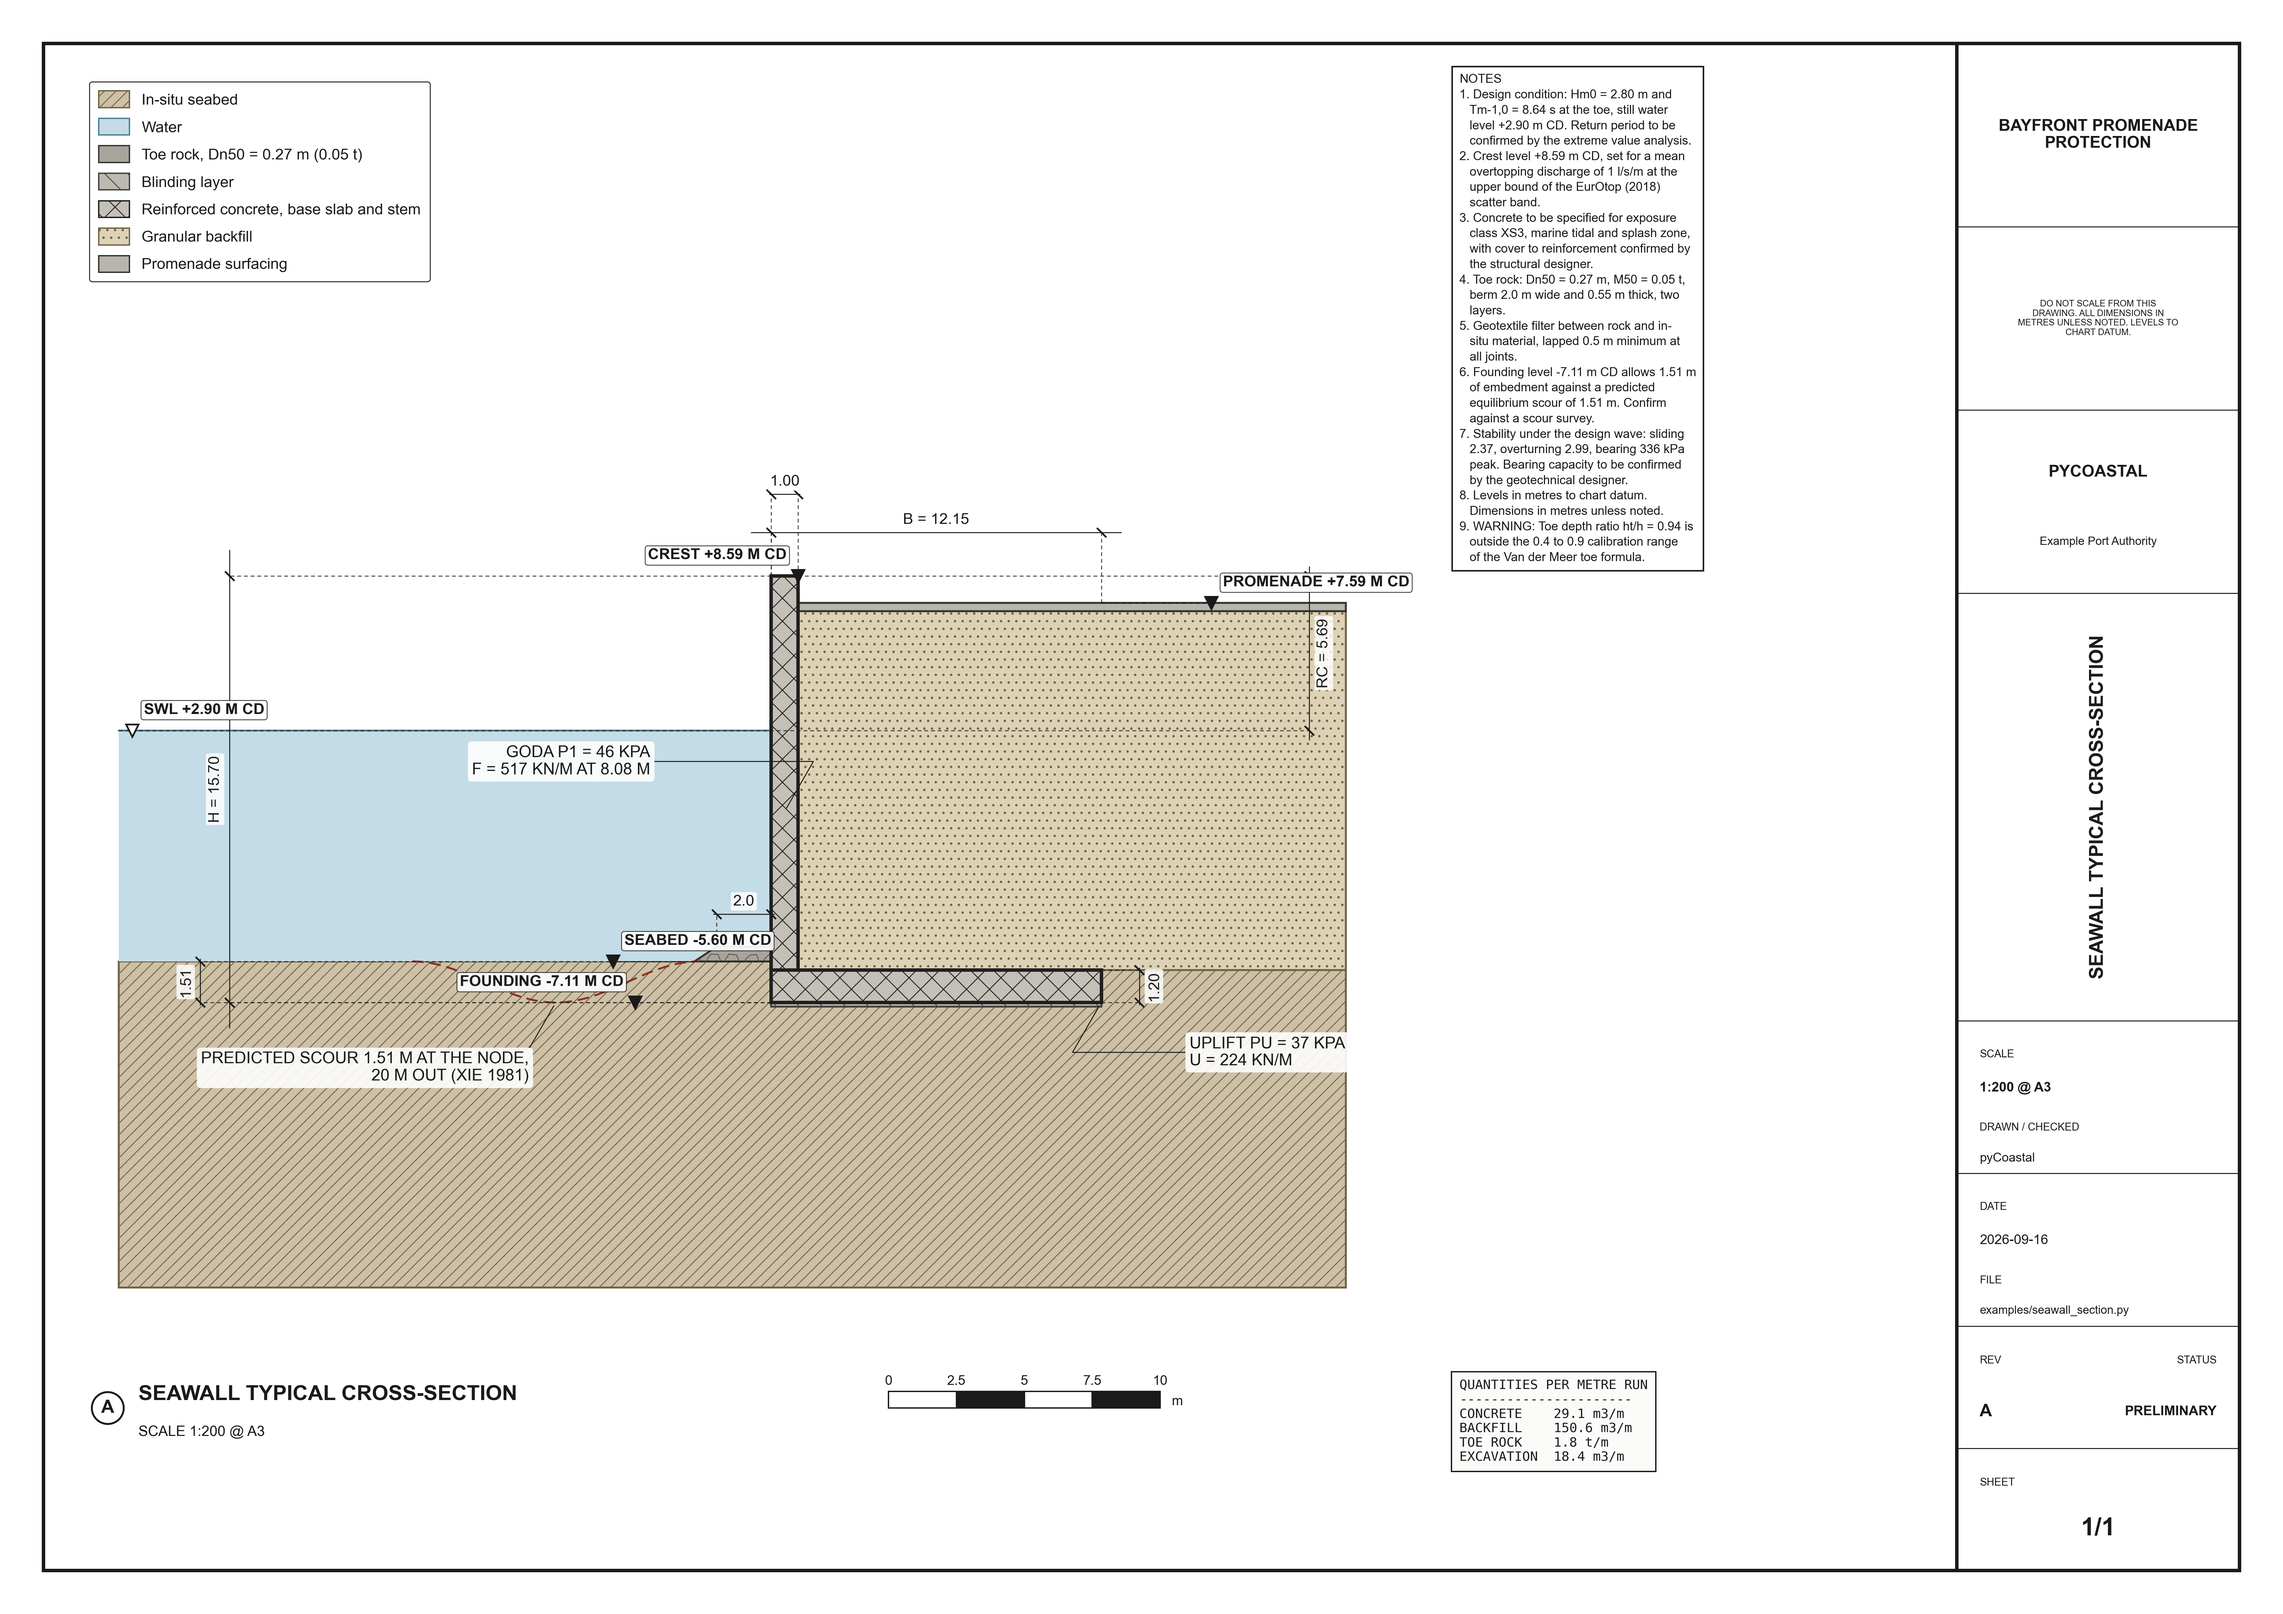
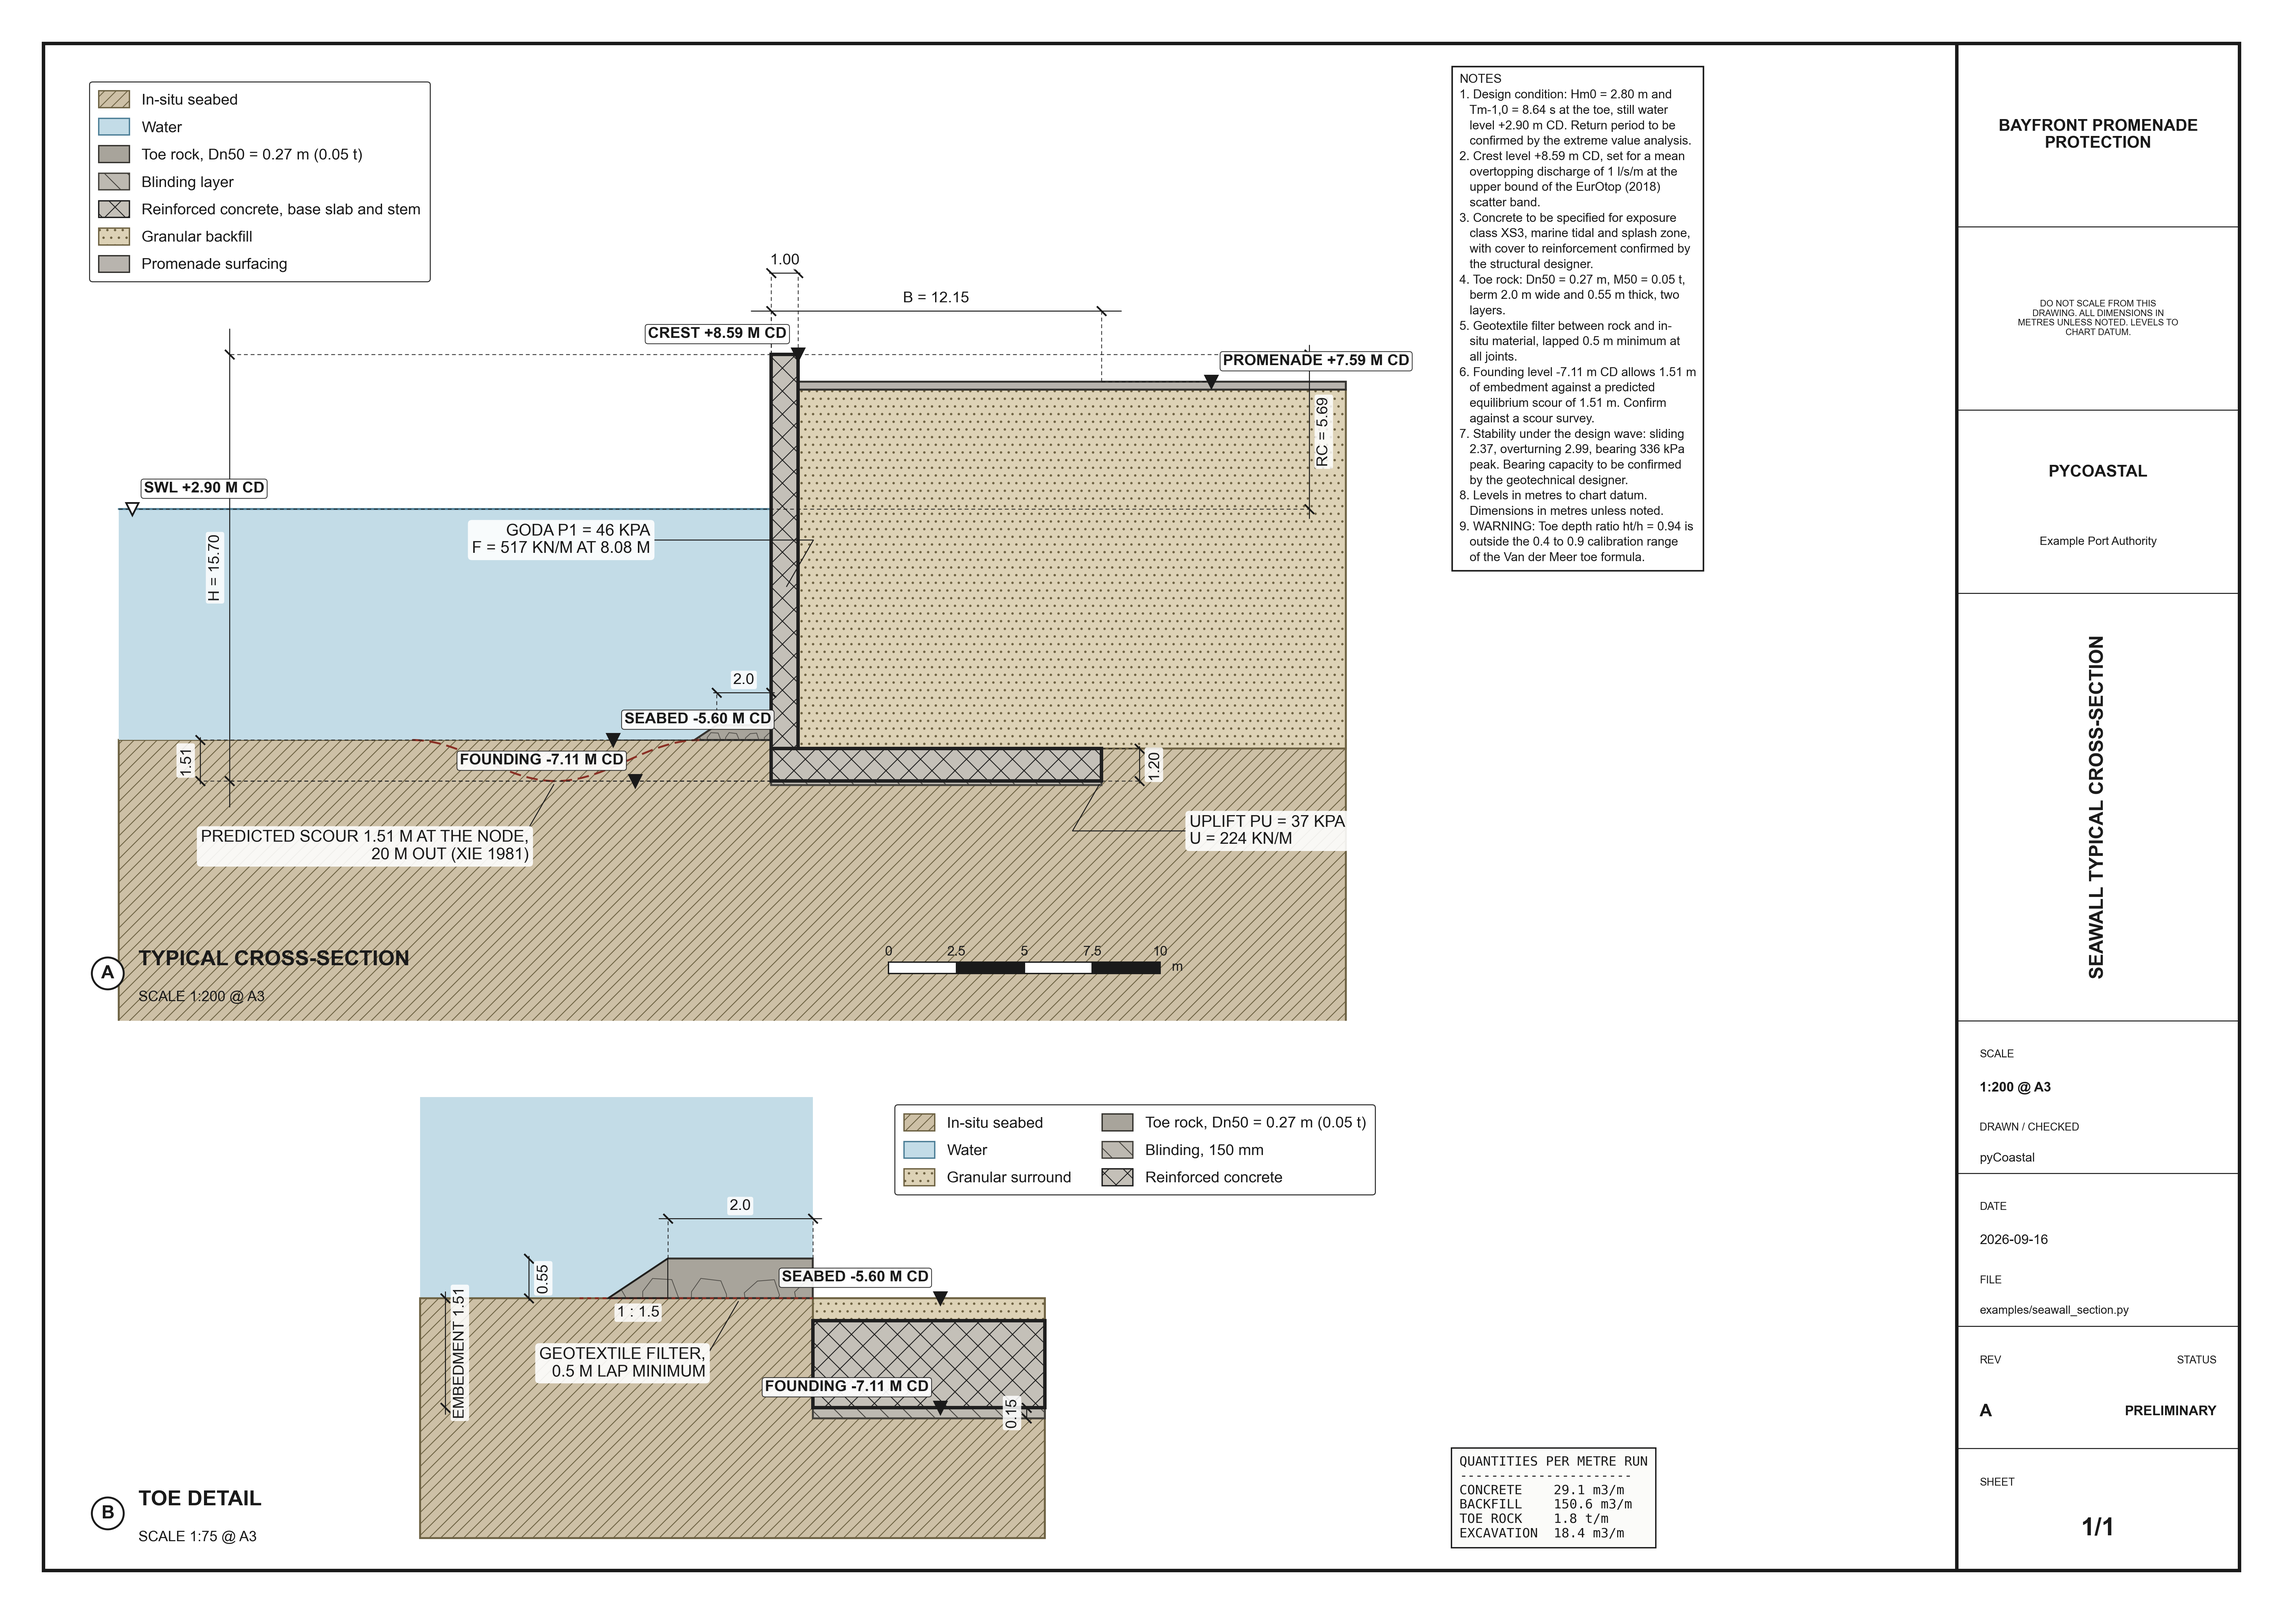
Add an enlarged toe detail to the seawall sheet
The sheet now carries a typical section and a toe detail, matching how a
real drawing set splits the two: where things are, and what they are made
of.

Changed region(s): [[0.0311, 0.1873, 0.6229, 0.9677], [0.6229, 0.8428, 0.7164, 0.9677], [0.0623, 0.9053, 0.0934, 0.9365]]

diff --git a/pyCoastal/applications/sections.py b/pyCoastal/applications/sections.py
@@ -40,6 +40,7 @@ __all__ = [
     "draw_seawall",
     "seawall_section",
     "seawall_sheet",
+    "draw_seawall_toe_detail",
     "draw_rubble_mound",
     "rubble_mound_section",
     "rubble_mound_sheet",
@@ -414,14 +415,24 @@ def seawall_sheet(
     sheet = Sheet(
         _sheet_for(title, project, file, **titleblock), size=size,
     )
-    view = sheet.viewport(rect=(0.0, 0.05, 0.72, 0.95))
+
+    # View A: the typical section, showing where everything is.
+    view = sheet.viewport(rect=(0.0, 0.34, 0.72, 0.66))
     xlim, zlim = draw_seawall(view, d, sea_extent, land_extent)
     view.fit_scale(xlim, zlim, paper=size)
-    view.detail_bubble("A", title, view.scale_text, loc=(0.02, 0.04))
-    view.scale_bar(10.0, loc=(0.62, 0.04))
+    view.detail_bubble("A", "Typical cross-section", view.scale_text,
+                       loc=(0.02, 0.05))
+    view.scale_bar(10.0, loc=(0.62, 0.05))
     view.key(loc="upper left")
 
-    notes = sheet.viewport(rect=(0.72, 0.05, 0.28, 0.95), frame=False)
+    # View B: the toe, enlarged, showing what it is made of.
+    toe = sheet.viewport(rect=(0.0, 0.0, 0.72, 0.33))
+    txlim, tzlim = draw_seawall_toe_detail(toe, d)
+    toe.fit_scale(txlim, tzlim, paper=size)
+    toe.detail_bubble("B", "Toe detail", toe.scale_text, loc=(0.02, 0.06))
+    toe.key(loc="upper right", ncol=2)
+
+    notes = sheet.viewport(rect=(0.72, 0.0, 0.28, 1.0), frame=False)
     notes.ax.set_xlim(0, 1)
     notes.ax.set_ylim(0, 1)
     notes.ax.set_aspect("auto")
@@ -1030,3 +1041,76 @@ def draw_channel_detail(dwg: Section, design, width_in_beams: float = 0.35,
                   f"gross UKC {d.clearance['gross']:.2f}", side="left")
 
     return (-half, half), (level - 1.2, hull_top + 0.2)
+
+
+def draw_seawall_toe_detail(dwg: Section, design, annotate: bool = True
+                            ) -> tuple[tuple, tuple]:
+    """Enlarged detail of the toe, where the section is actually decided.
+
+    The typical section shows where everything is. This shows what the toe
+    is made of: the blinding under the heel, the founding level against the
+    scour allowance, the rock berm and its geotextile, and the seabed the
+    whole thing is sitting on. It is the part of a seawall that fails first
+    and the part a typical section is always too small to explain.
+    """
+    d = design
+    bed, found = d.seabed_level, d.founding_level
+    berm_face = 1.5 * d.toe_berm_thickness
+    blinding = 0.15
+
+    x0 = -(d.toe_berm_width + berm_face + 2.6)
+    x1 = 2.2 * d.stem_thickness + 1.0
+    floor = found - 1.8
+
+    dwg.material([[x0, floor], [x1, floor], [x1, bed], [x0, bed]],
+                 "subgrade", label="In-situ seabed", zorder=1.5)
+    dwg.water(x0, 0.0, d.still_water_level, bed=bed, zorder=1.2)
+
+    # The excavation the wall sits in, backfilled around the base.
+    dwg.material([[0.0, found - blinding], [x1, found - blinding],
+                  [x1, bed], [0.0, bed]], "granular",
+                 label="Granular surround", zorder=2.0)
+
+    dwg.material(
+        [[-d.toe_berm_width - berm_face, bed],
+         [-d.toe_berm_width, bed + d.toe_berm_thickness],
+         [0.0, bed + d.toe_berm_thickness], [0.0, bed]],
+        "toe",
+        label=f"Toe rock, Dn50 = {d.toe_Dn50:.2f} m ({d.toe_M50 / 1000:.2f} t)",
+        zorder=2.6,
+    )
+    dwg.material([[0.0, found - blinding], [x1, found - blinding],
+                  [x1, found], [0.0, found]], "blinding",
+                 label=f"Blinding, {blinding * 1000:.0f} mm", zorder=2.8)
+    dwg.material([[0.0, found], [x1, found],
+                  [x1, found + d.base_thickness], [0.0, found + d.base_thickness]],
+                 "reinforced", label="Reinforced concrete", zorder=3.0)
+
+    # Geotextile under the rock, drawn as the line it is on a drawing.
+    dwg.line([[-d.toe_berm_width - berm_face - 0.4, bed],
+              [0.0, bed]], weight="medium", style=(0, (2, 2)),
+             color="#8a2f24", zorder=3.4)
+
+    if annotate:
+        dwg.note((-0.5 * d.toe_berm_width, bed),
+                 "Geotextile filter,\n0.5 m lap minimum", offset=(-18, -34),
+                 ha="right")
+        dwg.level(x1 * 0.55, bed, f"Seabed {bed:+.2f} m CD", side="left")
+        dwg.level(x1 * 0.55, found, f"Founding {found:+.2f} m CD", side="left")
+        dwg.dim_v(found, bed, x0 + 0.35, f"embedment {d.embedment:.2f}",
+                  side="right")
+        dwg.dim_v(found - blinding, found, x1 - 0.25, f"{blinding:.2f}",
+                  side="left")
+        dwg.dim_h(-d.toe_berm_width, 0.0, bed + d.toe_berm_thickness + 0.55,
+                  f"{d.toe_berm_width:.1f}",
+                  extend_from=(bed + d.toe_berm_thickness,
+                               bed + d.toe_berm_thickness))
+        # Kept a clear metre from the embedment dimension: two rotated
+        # labels on top of each other is the usual way a detail becomes
+        # unreadable.
+        dwg.dim_v(bed, bed + d.toe_berm_thickness, x0 + 1.5,
+                  f"{d.toe_berm_thickness:.2f}", side="right")
+        dwg.slope((-d.toe_berm_width, bed + d.toe_berm_thickness), 1.5,
+                  rise=d.toe_berm_thickness, direction="left", label="1 : 1.5")
+
+    return (x0, x1), (floor, bed + d.toe_berm_thickness + 2.2)

diff --git a/tests/test_applications_sections.py b/tests/test_applications_sections.py
@@ -16,6 +16,7 @@ from pyCoastal.applications.sections import (  # noqa: E402
     mound_layer_volumes,
     rubble_mound_section,
     draw_channel,
+    draw_seawall_toe_detail,
     rubble_mound_sheet,
     seawall_notes,
     seawall_section,
@@ -318,3 +319,30 @@ def test_channel_notes_name_the_governing_numbers(waterway):
     assert f"{waterway.dredge_level:+.2f}" in text
     assert "PIANC" in text
     assert "ICORELS" in text
+
+
+def test_seawall_toe_detail_covers_the_toe(wall):
+    from pyCoastal.applications.sections import draw_seawall_toe_detail
+
+    dwg = Section()
+    (x0, x1), (z0, z1) = draw_seawall_toe_detail(dwg, wall)
+    assert x0 < -wall.toe_berm_width
+    assert x1 > wall.stem_thickness
+    assert z0 < wall.founding_level
+    assert z1 > wall.seabed_level
+
+
+def test_seawall_toe_detail_is_an_enlargement(wall):
+    """The detail must be a smaller window than the typical section."""
+    section, detail = Section(), Section()
+    (sx0, sx1), _ = draw_seawall(section, wall)
+    (dx0, dx1), _ = draw_seawall_toe_detail(detail, wall)
+    assert (dx1 - dx0) < 0.4 * (sx1 - sx0)
+
+
+def test_seawall_sheet_carries_a_section_and_a_detail(wall):
+    sheet = seawall_sheet(wall, size="A3")
+    assert len(sheet.views) == 3          # section, toe detail, notes column
+    section, detail = sheet.views[0], sheet.views[1]
+    # The detail is drawn at a finer scale than the section it enlarges.
+    assert detail.scale < section.scale

diff --git a/README.md b/README.md
@@ -67,6 +67,10 @@ sheet.save("seawall.png")     # 1:200 @ A3, stated on the sheet
 sheet.to_dxf("seawall.dxf")   # geometry on named layers, for CAD
 ```
 
+The sheet carries a typical section and an enlarged toe detail, because the
+toe is the part that decides the section and the part a typical section is
+always too small to explain.
+
 Sections are drawn at a true scale by default, so a 1:2 slope looks like a
 1:2 slope. Where a true scale is unreadable, as it is for a channel six
 hundred metres wide and twenty deep, the exaggeration is applied
